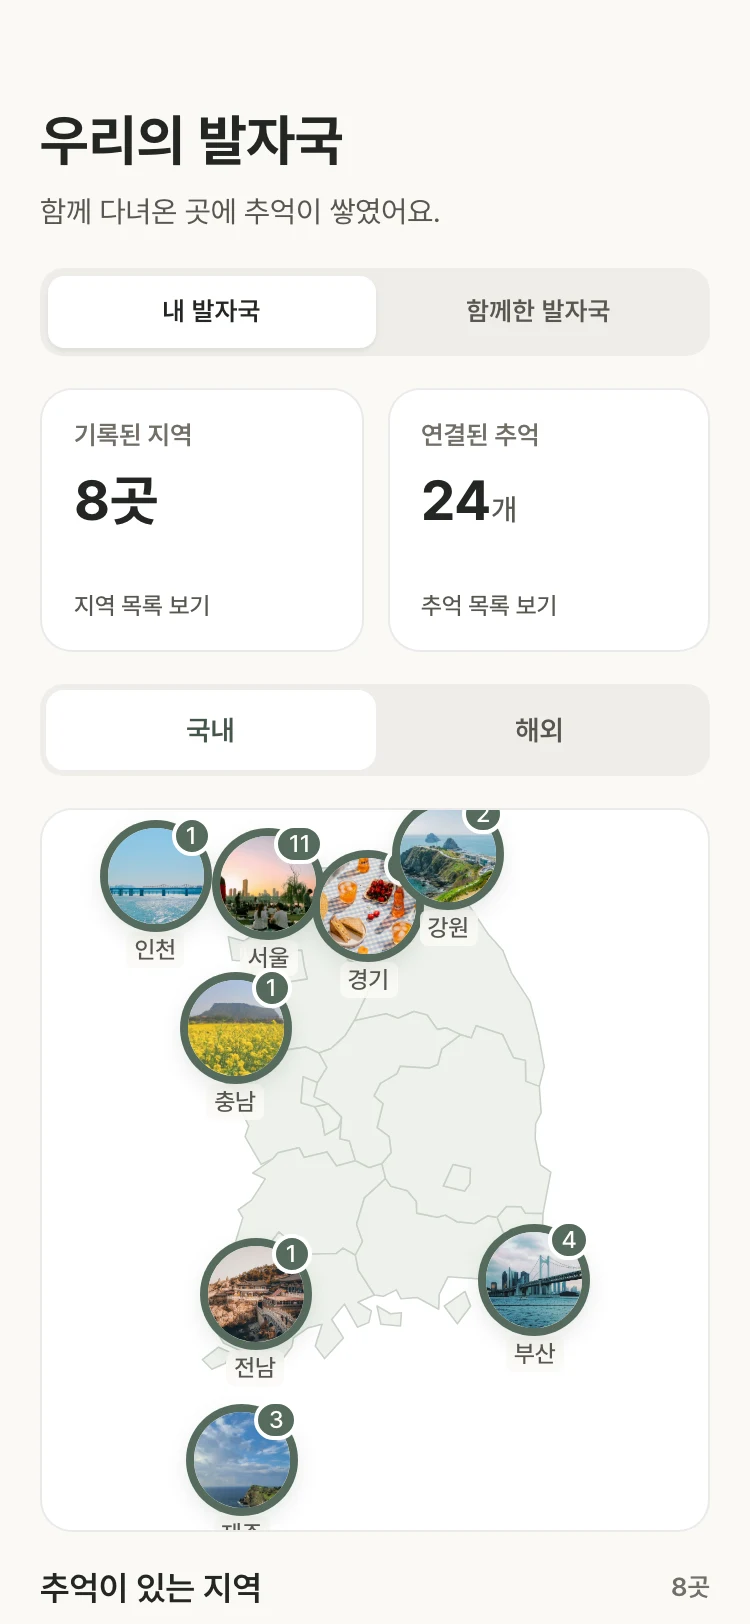
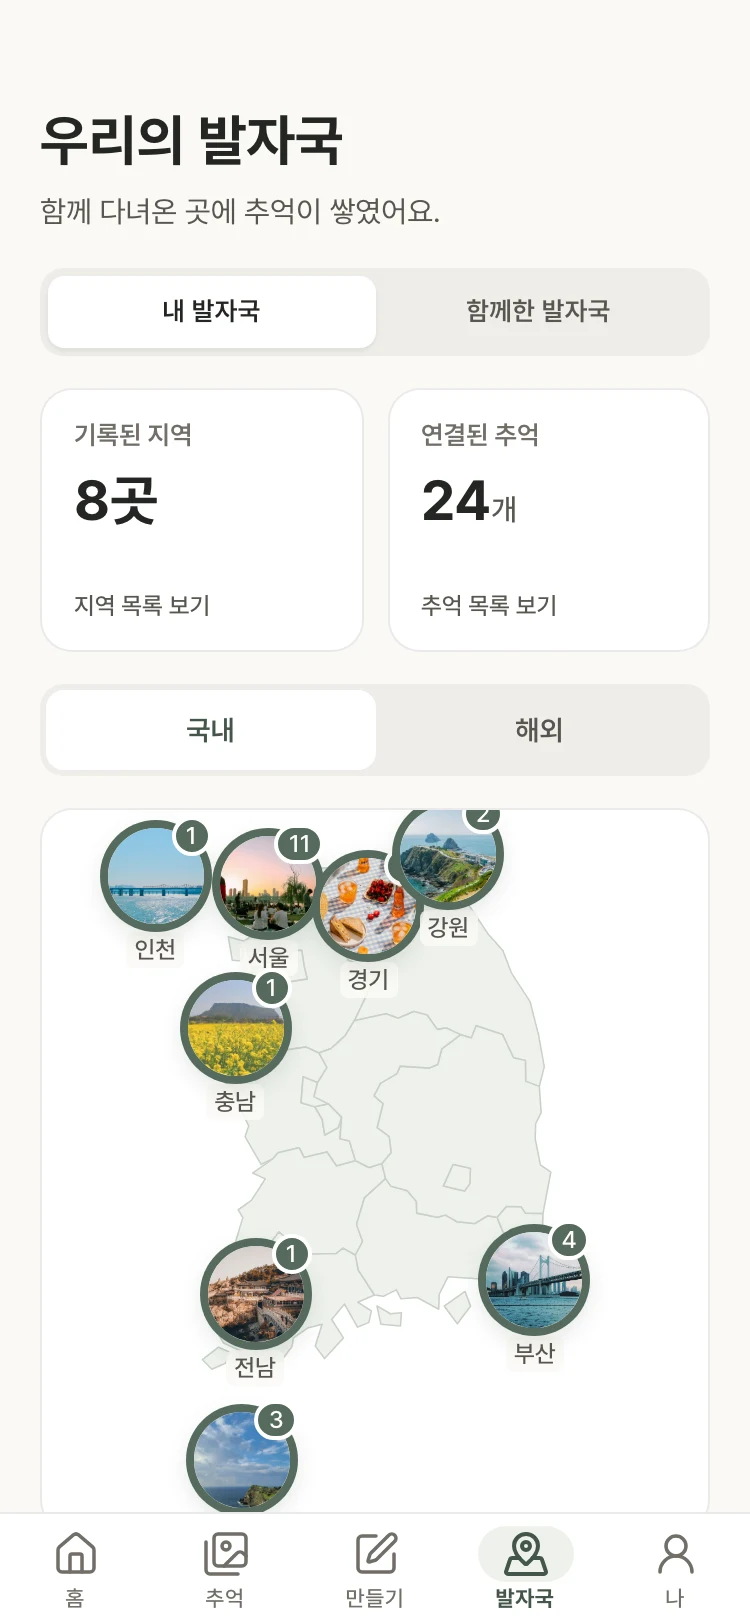
fix: 폰 목업 외부 그림자 전부 제거(캡션 가독성), 우리사이 발자국 화면에 하단 탭바 고정

diff --git a/src/index.css b/src/index.css
@@ -59,15 +59,15 @@ a, button { transition: color .15s cubic-bezier(.4,0,.2,1), background-color .15
 .zoomable { display: block; cursor: zoom-in; background: none; border: 0; padding: 0; text-align: inherit; }
 
 /* 폰 목업 */
-.phone { aspect-ratio: 390 / 844; padding: 3.2%; background: #111; border-radius: 15% / 7%; position: relative; box-shadow: 0 24px 40px -14px rgba(0,0,0,.4); }
+.phone { aspect-ratio: 390 / 844; padding: 3.2%; background: #111; border-radius: 15% / 7%; position: relative;  }
 .phone::after { content: ""; position: absolute; top: 2.2%; left: 50%; width: 28%; height: 2.4%; transform: translateX(-50%); background: #000; border-radius: 99px; }
 .phone img { display: block; width: 100%; height: 100%; object-fit: cover; object-position: top; border-radius: 12% / 5.5%; }
-.phone-bare { display: block; width: 100%; height: auto; aspect-ratio: auto 640 / 1355; filter: drop-shadow(0 22px 22px rgba(0,0,0,.28)); }
+.phone-bare { display: block; width: 100%; height: auto; aspect-ratio: auto 640 / 1355; }
 /* 상세: 섹션 번호 outline → filled (legacy 템플릿) */
 .num { font-size: clamp(44px, 6vw, 72px); font-weight: 800; line-height: 1; letter-spacing: -.04em; transition: color .5s, -webkit-text-stroke-color .5s; }
 
 /* 밝은 베젤 폰 프레임 (trigr 등, PDF 목업과 같은 톤) */
-.phone-light { position: relative; display: block; aspect-ratio: 390 / 844; padding: 2.6%; background: linear-gradient(145deg, #4a4a50, #1b1b1e 45%, #34343a); border-radius: 14% / 6.5%; box-shadow: inset 0 0 0 1px rgba(255,255,255,.22), 0 0 0 1px rgba(0,0,0,.5), 0 40px 60px -28px rgba(0,0,0,.4), 0 12px 24px -12px rgba(0,0,0,.2); }
+.phone-light { position: relative; display: block; aspect-ratio: 390 / 844; padding: 2.6%; background: linear-gradient(145deg, #4a4a50, #1b1b1e 45%, #34343a); border-radius: 14% / 6.5%; box-shadow: inset 0 0 0 1px rgba(255,255,255,.22), 0 0 0 1px rgba(0,0,0,.5); }
 .phone-light::after { content: ""; position: absolute; top: 2.9%; left: 50%; width: 27%; height: 2.2%; transform: translateX(-50%); background: #000; border-radius: 99px; z-index: 2; }
 .phone-light .screen { display: block; width: 100%; height: 100%; object-fit: cover; object-position: top; border-radius: 11.5% / 5.3%; background: #fff; }
 
@@ -88,7 +88,7 @@ header[data-dark="1"] a, header[data-dark="1"] button { color: #f5f5f7; }
 .stage-step.on { opacity: 1; }
 
 /* 프로 목업: 메탈 림 + 흑연 베젤 + 다이내믹 아일랜드 + 측면 버튼 + 화면 반사 (Behance 상위 포트폴리오의 기기 표현 참고) */
-.phone-pro { position: relative; aspect-ratio: 390 / 844; padding: 2.5%; border-radius: 15.5% / 7.2%; background: linear-gradient(150deg, #5a5a62 0%, #17171a 28%, #0a0a0c 55%, #2c2c32 100%); box-shadow: inset 0 0 0 1px rgba(255,255,255,.28), inset 0 0 0 3px #0a0a0c, 0 0 0 1px rgba(0,0,0,.65), 0 50px 70px -30px rgba(0,0,0,.6), 0 18px 30px -16px rgba(0,0,0,.35); }
+.phone-pro { position: relative; aspect-ratio: 390 / 844; padding: 2.5%; border-radius: 15.5% / 7.2%; background: linear-gradient(150deg, #5a5a62 0%, #17171a 28%, #0a0a0c 55%, #2c2c32 100%); box-shadow: inset 0 0 0 1px rgba(255,255,255,.28), inset 0 0 0 3px #0a0a0c, 0 0 0 1px rgba(0,0,0,.65); }
 .phone-pro::before { content: ""; position: absolute; left: -1.1%; top: 15%; width: 1.4%; height: 24%; border-radius: 3px 0 0 3px; background: linear-gradient(to bottom, #2e2e33 0 14%, transparent 14% 30%, #2e2e33 30% 62%, transparent 62% 70%, #2e2e33 70% 100%); }
 .phone-pro::after { content: ""; position: absolute; top: 2.9%; left: 50%; width: 26%; height: 2.3%; transform: translateX(-50%); background: #000; border-radius: 99px; z-index: 2; box-shadow: inset 0 0 0 1px rgba(255,255,255,.06); }
 .phone-pro.no-island::after { display: none; }

diff --git a/src/components/Mockup.tsx b/src/components/Mockup.tsx
@@ -53,7 +53,7 @@ export function ProtoFrame({ p, width = 300 }: { p: Project; width?: number }) {
     <div>
       {bare
         ? <div className="overflow-hidden" style={{ width: inner, height: p.proto.h * k, borderRadius: 62 * k }}>{frame}</div>
-        : <div className="rounded-[28px] bg-[#111] p-[10px] shadow-[0_30px_60px_-20px_rgba(0,0,0,.45)]" style={{ width }}>
+        : <div className="rounded-[28px] bg-[#111] p-[10px]" style={{ width }}>
             <div className="overflow-hidden rounded-[28px] bg-white" style={{ width: inner, height: p.proto.h * k }}>{frame}</div>
           </div>}
       <p className="mt-3 text-[13px] text-sub flex items-center justify-between" style={{ width }}>
